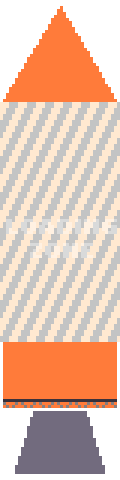
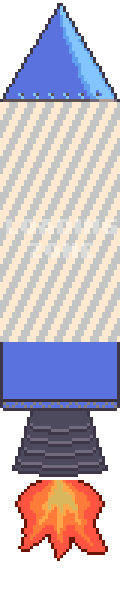
-improved graphics

diff --git a/hankerin.html b/hankerin.html
@@ -190,7 +190,7 @@ function init() {
 	g_game.special.transform('t534,16');
 	g_game.raphPaper.rect(280,0,110,110).attr({ stroke: '#fff', 'stroke-width': 4 });
 	g_game.astro = g_game.raphPaper.image('./images/astro_1.png', 440, 20, 96, 96);
-	g_game.imgRocket = g_game.raphPaper.image('./images/rocket.png', 140, 0, 120, 480).attr({ opacity: 1 });
+	g_game.imgRocket = g_game.raphPaper.image('./images/rocket.png', 140, 0, 120, 600).attr({ opacity: 1 });
 	g_game.dropZone = g_game.raphPaper.rect(140, 100, 120, 240).attr({ fill: '#999', opacity: 0 });
 	
 	g_game.timer = g_game.raphPaper.text(330, 140, '10').attr({ stroke: '#fff', fill: '#fff', 'font-size': '48pt', 'font-family': g_game.font });
